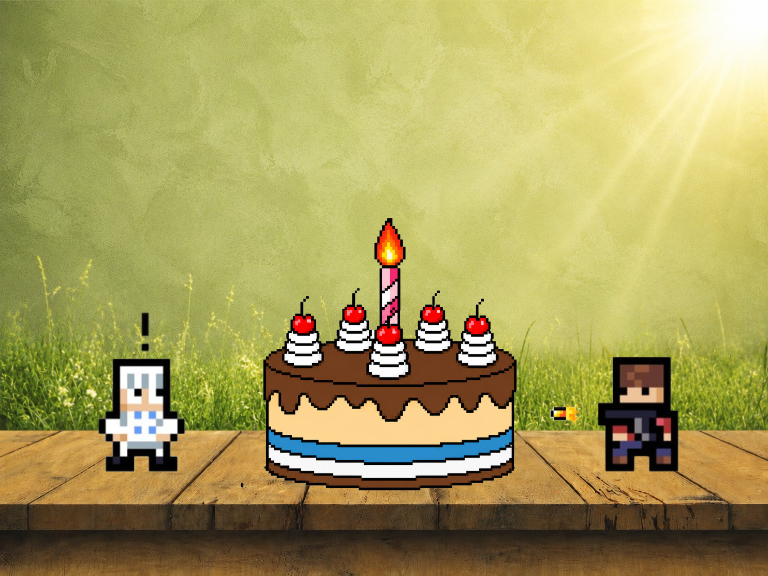
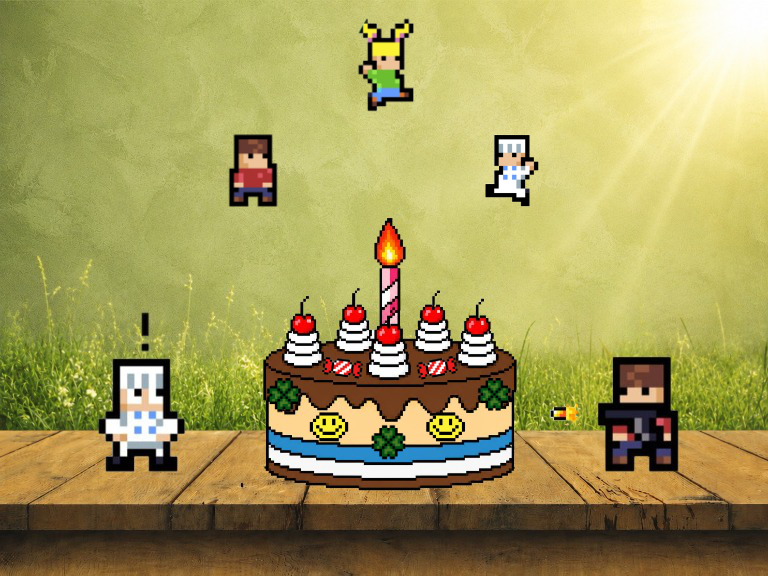
added rain effect to bossfight. completed main menu screen. tweaked bossfight firing logic

diff --git a/src/Rain.java b/src/Rain.java
@@ -1,0 +1,70 @@
+import javax.imageio.ImageIO;
+import java.awt.*;
+import java.awt.image.BufferedImage;
+import java.io.IOException;
+
+public class Rain implements GameObject {
+    private static int counter=0;
+    private static int x0Counter=0;
+    private  int x,y;
+    private BufferedImage rainImage;
+    private int speed;
+    private int rainSpawnCounter;
+
+    public Rain(){
+        try{
+            rainImage = ImageIO.read(getClass().getResourceAsStream("Backgrounds/RainDrop.png"));
+        }
+        catch (IOException e){
+            e.printStackTrace();
+        }
+        setDefaults();
+            counter++;
+        if (counter>=22){
+            counter = 0;
+        }
+    }
+
+    public void setDefaults(){
+        switch(counter) {
+            case 0: x = 0; break;
+            case 1: x = 50; break;
+            case 2: x = 100; break;
+            case 3: x = 150; break;
+            case 4: x = 200; break;
+            case 5: x = 250; break;
+            case 6: x = 300; break;
+            case 7: x = 350; break;
+            case 8: x = 400; break;
+            case 9: x = 450; break;
+            case 10: x = 500; break;
+            case 11: x = 550; break;
+            case 12: x = 600; break;
+            case 13: x = 650; break;
+            case 14: x = 700; break;
+            case 15: x = 750; break;
+            case 16: x = 800; break;
+            case 17: x = 850; break;
+            case 18: x = 900; break;
+            case 19: x = 950; break;
+            case 20: x = 1000; break;
+            case 21: x = 1050; break;
+            case 22: x = 1100; break;
+        }
+        speed = 2;
+        y=-100;
+    }
+    @Override
+    public void update() {
+        x-=speed/2;
+        y+=speed;
+    }
+
+    @Override
+    public void draw(Graphics2D g2) {
+      g2.drawImage(rainImage,x,y,null);
+    }
+    public int getY(){
+        return y;
+    }
+}

diff --git a/src/GamePanel.java b/src/GamePanel.java
@@ -6,6 +6,7 @@ import java.awt.event.MouseEvent;
 import java.awt.image.BufferedImage;
 import java.io.IOException;
 import java.util.ArrayList;
+import java.util.concurrent.CopyOnWriteArrayList;
 
 public class GamePanel extends JPanel implements Runnable {
     private static final int originalTileSize = 16; // actual size of each object
@@ -17,8 +18,8 @@ public class GamePanel extends JPanel implements Runnable {
     private static final int screenHeight = tileSize * maxScreenRow; // screen dimension y
     private static final int FPS = 60;
 
-    private ArrayList<GameObject> cafeObjects;
-    private ArrayList<GameObject> bossFightObjects;
+    private static ArrayList<GameObject> cafeObjects;
+    private static java.util.concurrent.CopyOnWriteArrayList<GameObject> bossFightObjects;
     private Thread gameThread;
 
     private BufferedImage menuBackground, cafeBackground, bossFightBackground;
@@ -30,7 +31,9 @@ public class GamePanel extends JPanel implements Runnable {
     private KeyHandler keyHandler;
     private ConveyerBelt conveyerBelt;
 
-    Rectangle startButton = new Rectangle(315, 150, 150, 50);
+    Rectangle startButton = new Rectangle(310, 130, 150, 60);
+    private boolean buttonPressed = false;
+    private int rainSpawnCounter = 0; // COUNTER FOR RAIN SPAWN TIME IN BOSSFIGHT
 
     public GamePanel() {
         this.setLayout(null);
@@ -41,19 +44,15 @@ public class GamePanel extends JPanel implements Runnable {
         this.setFocusable(true);
 
         cafeObjects = new ArrayList<>(); // instantiating arraylists
-        bossFightObjects = new ArrayList<>();
+        bossFightObjects = new CopyOnWriteArrayList<>();
 
         this.stateManager = StateManager.getInstance(); // calling stateManager instance
 
-<<<<<<< HEAD
-        keyHandler = new KeyHandler(); // needed to take keyInput
-=======
         keyHandler = new KeyHandler();// needed to take keyInput
         conveyerBelt = new ConveyerBelt(keyHandler);
         cafeObjects.add(conveyerBelt);
->>>>>>> 9bc34b7a387010554a4c295d2417c4d5bec1dfd3
 
-        player = new Player(this, keyHandler); // player instantiation
+        player = new Player( keyHandler); // player instantiation
         bossFightObjects.add(player);
         customer = new Customer(this); // customer instantiation
         bossFightObjects.add(customer);
@@ -63,13 +62,29 @@ public class GamePanel extends JPanel implements Runnable {
 
         // mouseListener to track when we click
         this.addMouseListener(new MouseAdapter() {
-            public void mouseClicked(MouseEvent e) {
-
+            public void mousePressed(MouseEvent e) {
                 if (stateManager.getState() == 0) {
                     if (startButton.contains(e.getPoint())) {
+                        buttonPressed = true;
+                        repaint();
+                    }
+                }
+            }
+
+            public void mouseReleased(MouseEvent e) {
+                if (stateManager.getState() == 0) {
+                    if (startButton.contains(e.getPoint()) && buttonPressed) {
+                        try {
+                            Thread.sleep(10);
+                        }
+                        catch (InterruptedException x){
+                            x.printStackTrace();
+                        }
                         stateManager.setState(1);
                     }
                 }
+                buttonPressed = false;
+                repaint();
             }
         });
 
@@ -112,6 +127,12 @@ public class GamePanel extends JPanel implements Runnable {
     }
 
     public void update() {
+        rainSpawnCounter++;  //SPAWNING RAIN
+        if (rainSpawnCounter >= 2) {
+            rainSpawnCounter = 0;
+            bossFightObjects.add(new Rain());
+        }
+
         if (stateManager.getState() == 0) {
             targetBackground = menuBackground;
         } else if (stateManager.getState() == 1) {
@@ -121,8 +142,13 @@ public class GamePanel extends JPanel implements Runnable {
             }
         } else if (stateManager.getState() == 2) {
             targetBackground = bossFightBackground;
-            for (GameObject object : bossFightObjects) {
-                object.update();
+            for (int i = 0; i < bossFightObjects.size(); i++) {
+                GameObject obj = bossFightObjects.get(i);
+                obj.update();
+                if (obj instanceof Rain rain && rain.getY() > 600) {
+                    bossFightObjects.remove(i);
+                    i--;
+                }
             }
         }
     }
@@ -135,7 +161,7 @@ public class GamePanel extends JPanel implements Runnable {
 
         if (stateManager.getState() == 0) {
             // main button
-            g2.setColor(new Color(139, 90, 43)); // brownish wooden color
+            g2.setColor(buttonPressed ? new Color(100, 65, 30) : new Color(139, 90, 43)); // brownish wooden color
             g2.fillRoundRect(startButton.x, startButton.y, startButton.getSize().width, startButton.getSize().height,
                     20, 20);
             // borders
@@ -145,8 +171,8 @@ public class GamePanel extends JPanel implements Runnable {
                     20, 20);
             // text
             g2.setColor(Color.WHITE);
-            g2.setFont(new Font("Arial", Font.BOLD, 20));
-            g2.drawString("START", startButton.x + 40, startButton.y + 30);
+            g2.setFont(new Font("Arial", Font.BOLD, 25));
+            g2.drawString("START", startButton.x + 34, startButton.y + 35);
         }
 
         if (stateManager.getState() == 1) {

diff --git a/src/Player.java b/src/Player.java
@@ -14,13 +14,12 @@ public class Player extends Entity implements GameObject {
     }
 
     public void getPlayerImage() {
-
         try {
-            chef_right = ImageIO.read(getClass().getResourceAsStream("/player/cheffaceright.png"));
-            chef_kick_right = ImageIO.read(getClass().getResourceAsStream("/player/chefkickright.png"));
-            chef_left = ImageIO.read(getClass().getResourceAsStream("/player/cheffaceleft.png"));
-            chef_kick_left = ImageIO.read(getClass().getResourceAsStream("/player/chefkickleft.png"));
-            chef_up = ImageIO.read(getClass().getResourceAsStream("/player/chefback.png"));
+            chef_right = ImageIO.read(getClass().getResourceAsStream("player/cheffaceright.png"));
+            chef_kick_right = ImageIO.read(getClass().getResourceAsStream("player/chefkickright.png"));
+            chef_left = ImageIO.read(getClass().getResourceAsStream("player/cheffaceleft.png"));
+            chef_kick_left = ImageIO.read(getClass().getResourceAsStream("player/chefkickleft.png"));
+            chef_up = ImageIO.read(getClass().getResourceAsStream("player/chefback.png"));
         } catch (IOException e) {
             e.printStackTrace();
         }

diff --git a/src/Entity.java b/src/Entity.java
@@ -1,9 +1,9 @@
 import java.awt.image.BufferedImage;
 
 public class Entity {
-    int x;
-    int y;
-    int health;
+    protected int x;
+    protected int y;
+    protected int health;
     int speed;
 
     public BufferedImage chef_right, chef_kick_right, chef_left, chef_kick_left, chef_up;

diff --git a/src/Bullet.java b/src/Bullet.java
@@ -14,8 +14,8 @@ public class Bullet {
         this.x = startX;
         this.y = startY;
         this.speed = 0;
-        this.width = 16;
-        this.height = 16;
+        this.width = 30;
+        this.height = 25;
 
         try {
             bulletImg = ImageIO.read(getClass().getResourceAsStream("/player/bullet.png"));

diff --git a/src/ConveyerBelt.java b/src/ConveyerBelt.java
@@ -11,7 +11,6 @@ public class ConveyerBelt extends Entity implements GameObject{
         KeyHandler keyHandler;
         public ConveyerBelt(KeyHandler keyHandler){
             this.keyHandler=keyHandler;
-            getBeltImage();
             getDefaultValues();
         }
 
@@ -53,12 +52,13 @@ public class ConveyerBelt extends Entity implements GameObject{
         public void setTimer(int timer) { this.timer = timer; }
         public void setDirection(String direction) { this.direction = direction; }
         public void setCakes(ArrayList<Cake> cakes) { this.cakes = cakes; }
-    public void getBeltImage() {
+   /* public void getBeltImage() {
         try { belt=ImageIO.read(getClass().getResourceAsStream("Belt/ConveyerBelt.png"));
         } catch (IOException e) {
             e.printStackTrace();
         }
     }
+    */
     public void getDefaultValues(){
             x=0;
             y=350;

diff --git a/src/Customer.java b/src/Customer.java
@@ -6,7 +6,6 @@ import java.util.ArrayList;
 import javax.imageio.ImageIO;
 
 public class Customer extends Entity implements GameObject {
-    KeyHandler keyHandler;
 
     private int shotCounter = 0;
     private final static int shotInterval = 45; // 90 frames
@@ -14,8 +13,7 @@ public class Customer extends Entity implements GameObject {
     private GamePanel gamePanel;
     private int batchNo;
 
-    public Customer(GamePanel gamePanel, KeyHandler keyHandler) {
-        this.keyHandler = keyHandler;
+    public Customer(GamePanel gamePanel) {
         batchNo=1;
         setCustomerDefault();
         getCustomerImage();

diff --git a/src/StateManager.java b/src/StateManager.java
@@ -26,7 +26,7 @@ public class StateManager {
 
     public static StateManager getInstance() {
         if (instance == null) {
-            instance = new StateManager(2);
+            instance = new StateManager(0);
         }
         return instance;
     }